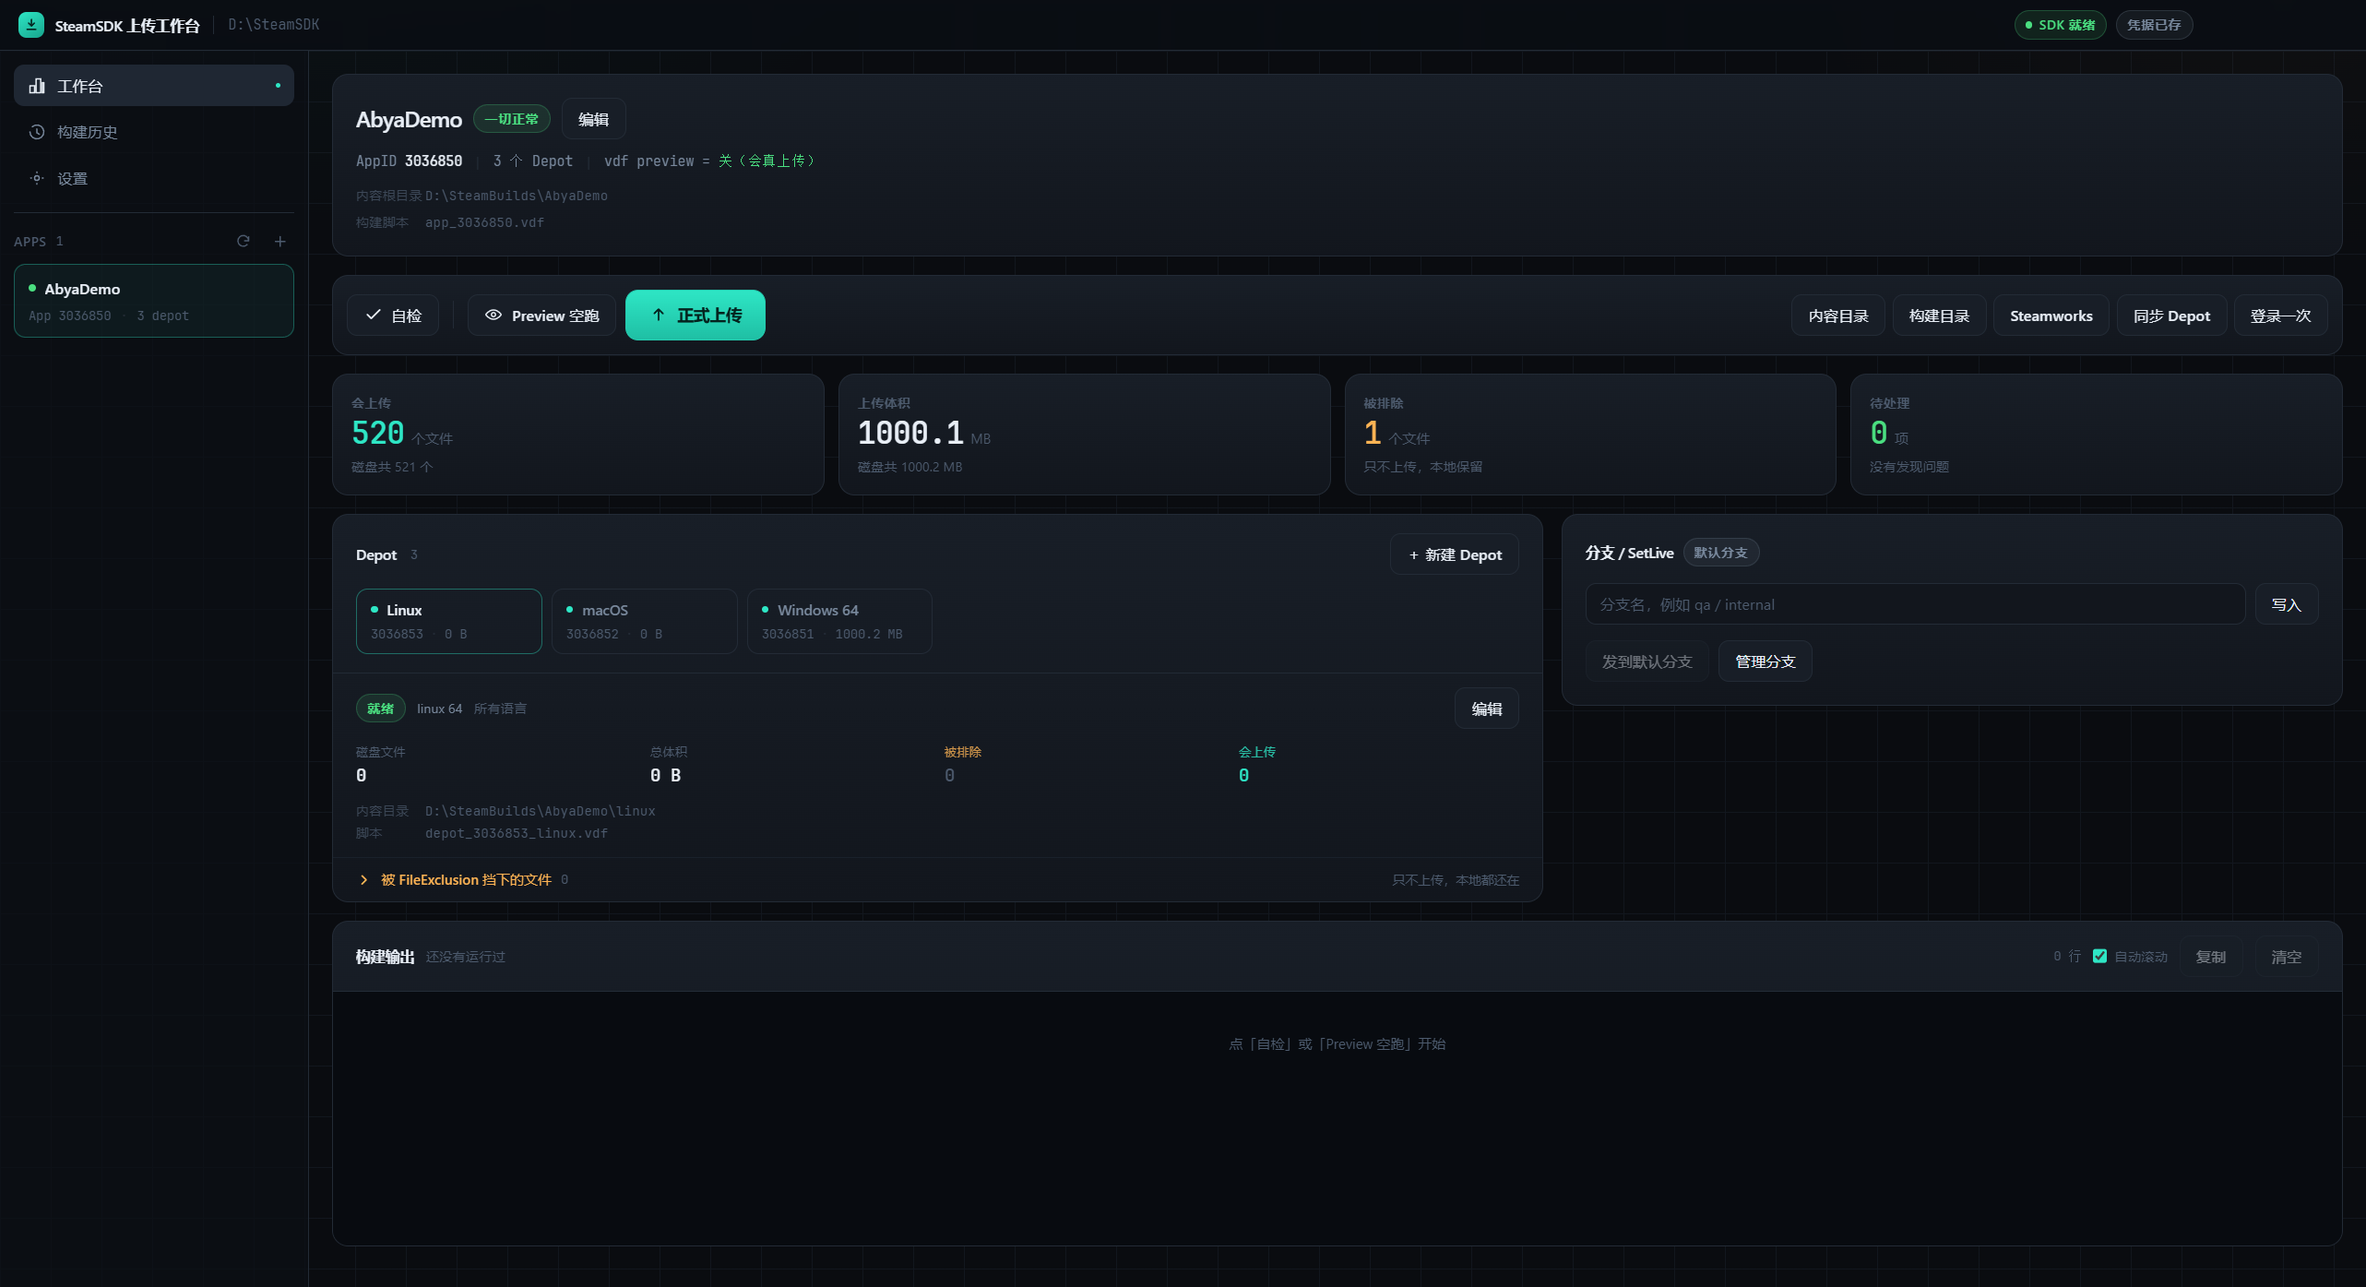
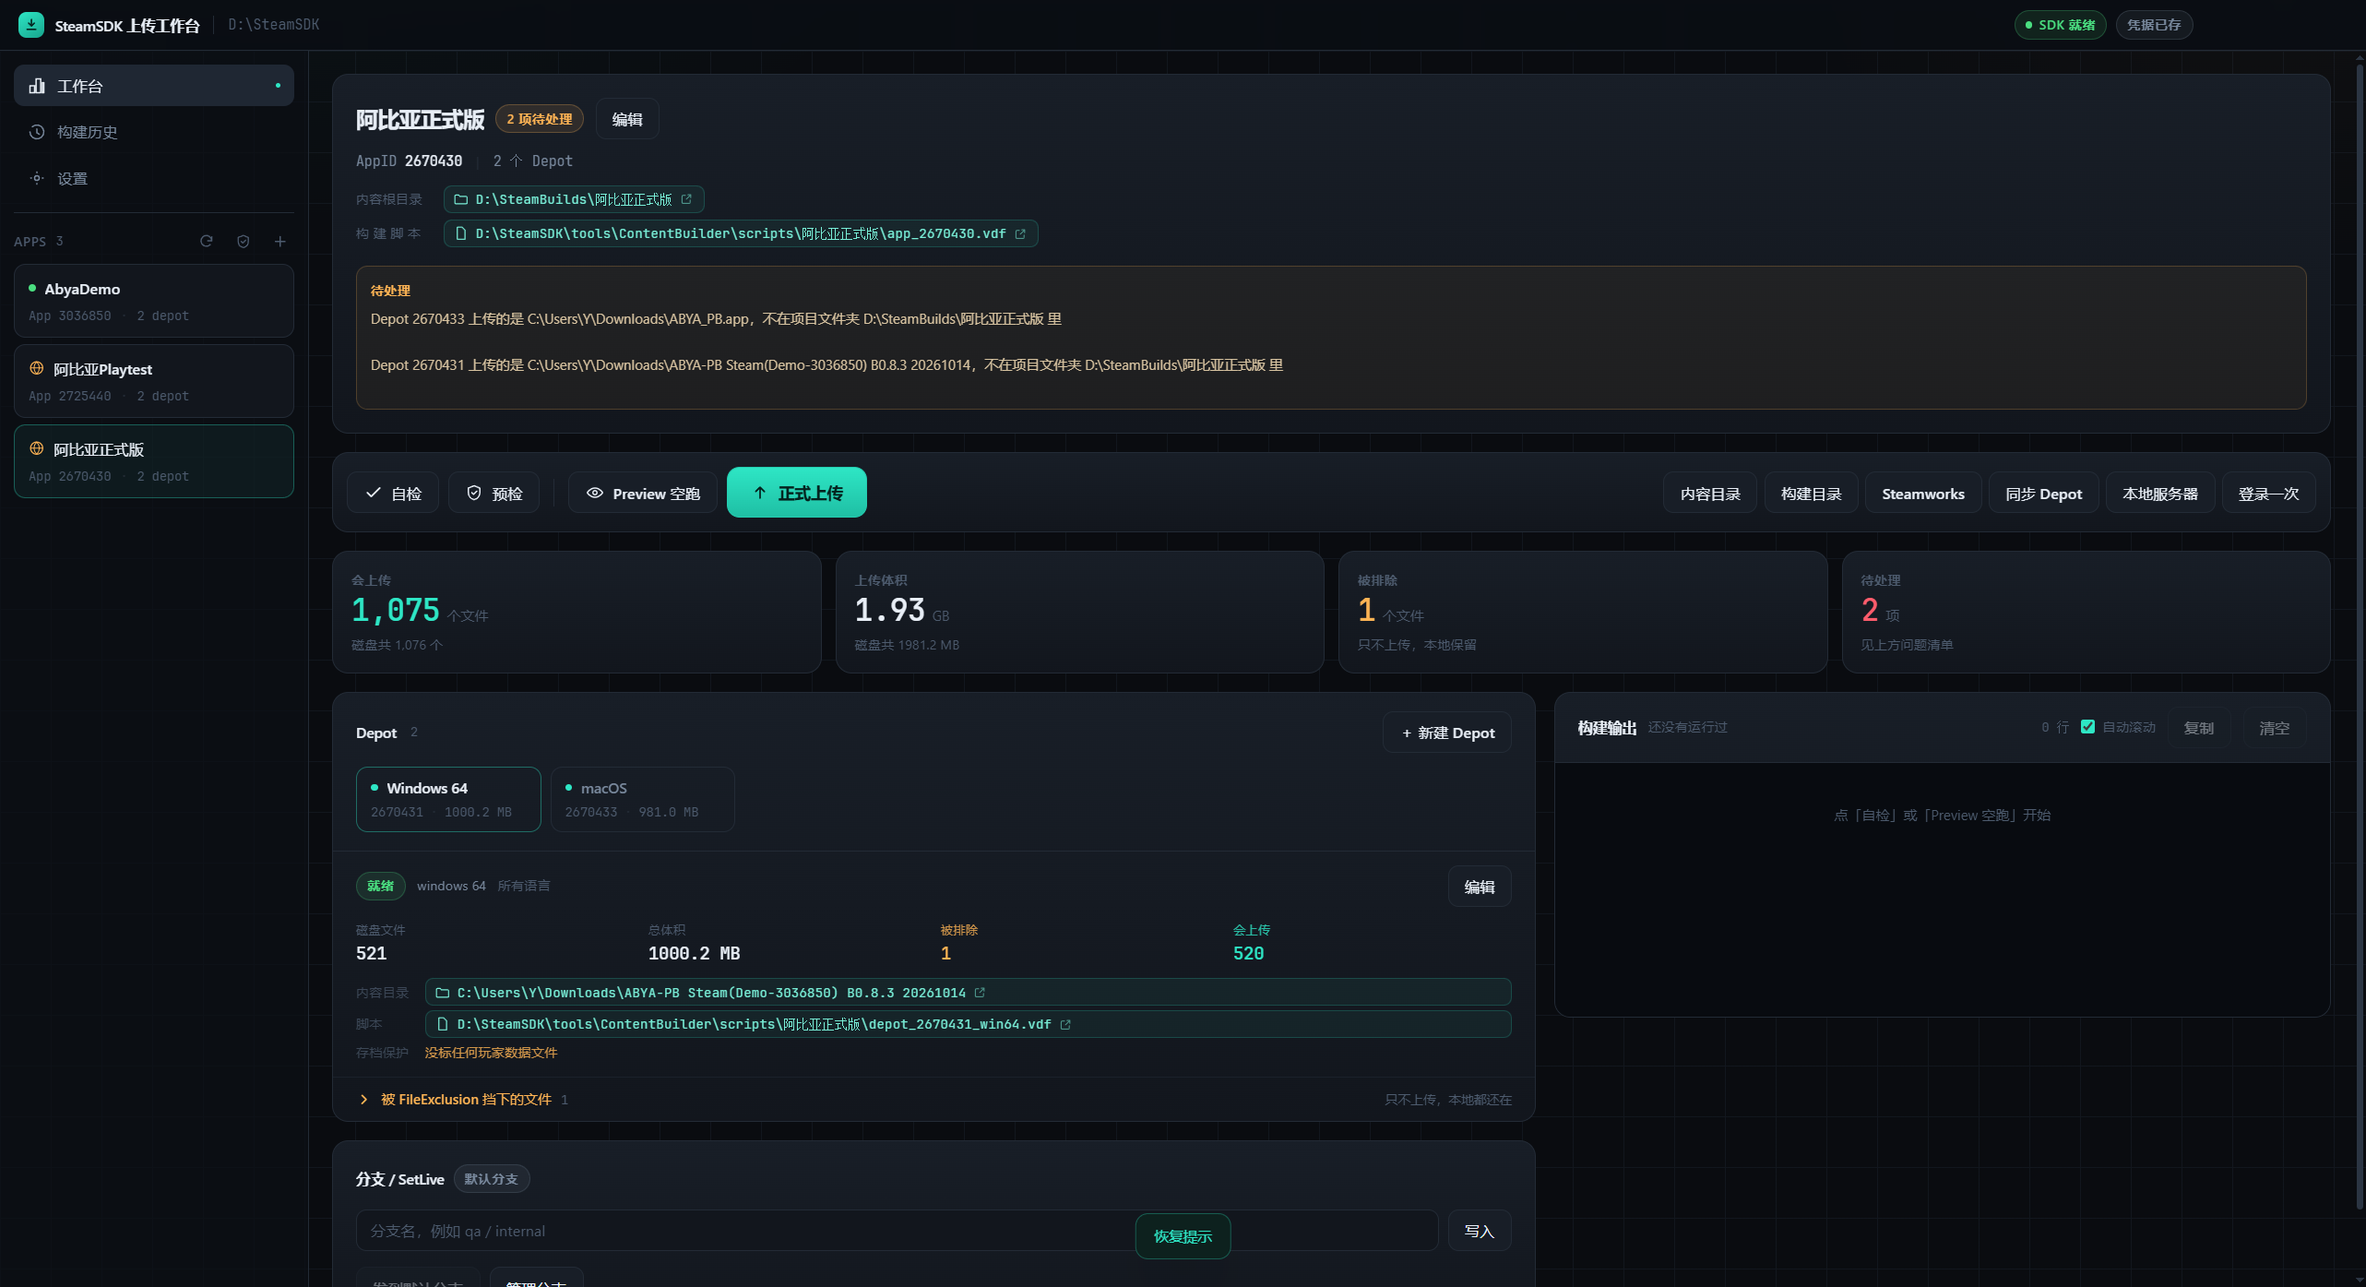
UI: 三态状态灯、待处理逐条忽略、工具条面板改浮层、历史点 App 跳回工作台、路径标签不换行

diff --git a/src/renderer/src/components/AppHeader.vue b/src/renderer/src/components/AppHeader.vue
@@ -1,9 +1,10 @@
 <script setup>
-import { computed } from 'vue'
-import { state, openDrawer } from '../store.js'
+import { computed, ref } from 'vue'
+import { state, openDrawer, ignoreProblem } from '../store.js'
 import PathLink from './PathLink.vue'
 
 const app = computed(() => state.detail)
+const showIgnored = ref(false)
 
 const status = computed(() => {
   if (!app.value || app.value.error) return { tone: 'pill-bad', text: '读取失败' }
@@ -42,13 +43,13 @@ const dup = computed(() => {
         </div>
 
         <div class="mt-3 flex flex-col gap-1.5 min-w-0">
-          <div class="flex items-center gap-2 min-w-0">
-            <span class="shrink-0 w-[52px] text-[11.5px] text-faint">内容根目录</span>
+          <div class="flex items-center gap-3 min-w-0">
+            <span class="shrink-0 w-[64px] text-[11.5px] text-faint whitespace-nowrap">内容根目录</span>
             <PathLink :path="app.contentRoot" kind="folder" class="min-w-0" />
           </div>
 
-          <div class="flex items-center gap-2 min-w-0">
-            <span class="shrink-0 w-[52px] text-[11.5px] text-faint">构建脚本</span>
+          <div class="flex items-center gap-3 min-w-0">
+            <span class="shrink-0 w-[64px] text-[11.5px] text-faint whitespace-nowrap tracking-[0.3em]">构建脚本</span>
             <PathLink :path="app.appPath" kind="file" class="min-w-0" />
           </div>
         </div>
@@ -75,9 +76,36 @@ const dup = computed(() => {
       class="mt-4 rounded-[10px] border border-[rgba(255,180,84,.22)] bg-[rgba(255,180,84,.05)] p-3"
     >
       <div class="text-[11.5px] font-semibold text-amber mb-1.5">待处理</div>
-      <ul class="m-0 pl-4 flex flex-col gap-1">
-        <li v-for="(p, i) in app.problems" :key="i" class="text-[12px] text-[#d7c3a0]">{{ p }}</li>
-      </ul>
+      <div class="flex flex-col gap-1">
+        <div v-for="(p, i) in app.problems" :key="i" class="flex items-start gap-2 group">
+          <span class="text-[12px] text-[#d7c3a0] leading-relaxed min-w-0 flex-1">{{ p }}</span>
+          <button
+            class="btn h-6 px-2 text-[10.5px] no-drag shrink-0 opacity-0 group-hover:opacity-100 focus:opacity-100 transition-opacity"
+            title="这条不再提示（原文一样才认作同一条，路径变了会重新报）"
+            @click="ignoreProblem(p, true)"
+          >
+            忽略
+          </button>
+        </div>
+      </div>
+    </div>
+
+    <!-- 已忽略的 -->
+    <div v-if="app.problemsIgnored?.length" class="mt-3 text-[11.5px]">
+      <button
+        class="bg-transparent border-0 p-0 cursor-pointer text-faint hover:text-muted underline decoration-dotted"
+        @click="showIgnored = !showIgnored"
+      >
+        已忽略 {{ app.problemsIgnored.length }} 条{{ showIgnored ? '，收起' : '' }}
+      </button>
+      <div v-if="showIgnored" class="mt-2 flex flex-col gap-1">
+        <div v-for="(p, i) in app.problemsIgnored" :key="'ig' + i" class="flex items-start gap-2">
+          <span class="text-[11.5px] text-faint leading-relaxed min-w-0 flex-1 line-through">{{ p }}</span>
+          <button class="btn h-6 px-2 text-[10.5px] no-drag shrink-0" @click="ignoreProblem(p, false)">
+            恢复
+          </button>
+        </div>
+      </div>
     </div>
   </div>
 

diff --git a/src/renderer/src/components/Sidebar.vue b/src/renderer/src/components/Sidebar.vue
@@ -23,8 +23,16 @@ const nav = [
 
 const appCount = computed(() => state.apps.length)
 
+/**
+ * 指示灯：红 = 结构性坏了（脚本缺了 / 没有 AppID / AppID 撞车），
+ * 黄 = 有待处理但不致命，绿 = 干净。
+ * 「有待处理」一律用黄色 —— 用红色会让人以为构建都跑不了。
+ */
 function healthOf(app) {
-  if (app.problems?.length) return 'bad'
+  if ((app.depots || []).some((d) => d.missing)) return 'bad'
+  if (!app.appId) return 'bad'
+  if (app.appId && state.duplicates?.some((d) => String(d.appId) === String(app.appId))) return 'bad'
+  if (app.problems?.length) return 'warn'
   if (!app.analysis?.exists) return 'warn'
   return 'ok'
 }
@@ -132,15 +140,35 @@ function healthOf(app) {
         "
         @click="selectApp(app.dirName)"
       >
-        <div class="flex items-center gap-2">
-          <span
-            class="w-1.5 h-1.5 rounded-full shrink-0"
-            :class="{
-              'bg-success': healthOf(app) === 'ok',
-              'bg-amber': healthOf(app) === 'warn',
-              'bg-danger': healthOf(app) === 'bad'
-            }"
-          />
+        <div class="flex items-center gap-2 min-w-0">
+          <!--
+            三态：绿点 = 干净；黄地球 = 有待处理（照样能传，只是有事没处理）；
+            红三角 = 结构性坏了（depot 脚本缺了 / 没有 AppID / AppID 撞车）。
+            之前「有待处理」也是红的，会让人以为构建跑不了。
+          -->
+          <svg
+            v-if="healthOf(app) === 'warn'"
+            viewBox="0 0 24 24"
+            class="w-3.5 h-3.5 shrink-0 text-amber"
+            fill="none"
+          >
+            <circle cx="12" cy="12" r="9" stroke="currentColor" stroke-width="1.7" />
+            <path
+              d="M3 12h18M12 3c2.6 2.5 4 5.6 4 9s-1.4 6.5-4 9c-2.6-2.5-4-5.6-4-9s1.4-6.5 4-9z"
+              stroke="currentColor"
+              stroke-width="1.4"
+            />
+          </svg>
+          <svg
+            v-else-if="healthOf(app) === 'bad'"
+            viewBox="0 0 24 24"
+            class="w-3.5 h-3.5 shrink-0 text-danger"
+            fill="none"
+          >
+            <path d="M12 3.5 2.8 19.5h18.4z" stroke="currentColor" stroke-width="1.7" stroke-linejoin="round" />
+            <path d="M12 9.8v4.2M12 16.9v.2" stroke="currentColor" stroke-width="1.9" stroke-linecap="round" />
+          </svg>
+          <span v-else class="w-1.5 h-1.5 rounded-full shrink-0 bg-success" />
           <span class="text-[13px] font-medium truncate">{{ app.dirName }}</span>
         </div>
         <div class="mt-1.5 flex items-center gap-2 text-[11px] text-faint num">

diff --git a/src/renderer/src/components/ActionBar.vue b/src/renderer/src/components/ActionBar.vue
@@ -128,7 +128,7 @@ const localHost = computed(() => {
 </script>
 
 <template>
-  <div class="card p-3 flex items-center gap-2 flex-wrap min-w-0" v-reveal="{ delay: 0.02 }">
+  <div class="card p-3 flex items-center gap-2 flex-wrap min-w-0 relative" v-reveal="{ delay: 0.02 }">
     <button class="btn no-drag" :disabled="disabled" @click="doCheck">
       <svg viewBox="0 0 24 24" class="w-4 h-4" fill="none">
         <path d="M20 6 9 17l-5-5" stroke="currentColor" stroke-width="2.2" stroke-linecap="round" stroke-linejoin="round" />
@@ -226,7 +226,7 @@ const localHost = computed(() => {
     >
       <div
         v-if="state.askPassword"
-        class="mt-1 w-full rounded-[10px] border border-[rgba(255,180,84,.24)] bg-[rgba(255,180,84,.06)] px-3 py-2.5"
+        class="bar-pop rounded-[10px] border border-[rgba(255,180,84,.3)] px-3 py-2.5"
       >
         <div class="flex items-center gap-2 text-[12px] text-amber">
           <svg viewBox="0 0 24 24" class="w-4 h-4 shrink-0" fill="none">
@@ -266,11 +266,11 @@ const localHost = computed(() => {
     >
       <div
         v-if="state.verify.busy || state.verify.error || state.verify.data"
-        class="mt-1 w-full rounded-[10px] border px-3 py-2.5"
+        class="bar-pop rounded-[10px] border px-3 py-2.5"
         :class="
           state.verify.error
-            ? 'border-[rgba(255,180,84,.24)] bg-[rgba(255,180,84,.06)]'
-            : 'border-line bg-surface-2/40'
+            ? 'border-[rgba(255,180,84,.3)]'
+            : 'border-line'
         "
       >
         <template v-if="state.verify.error">
@@ -393,11 +393,11 @@ const localHost = computed(() => {
     >
       <div
         v-if="state.preflight.busy || state.preflight.error || pf"
-        class="mt-1 w-full rounded-[10px] border px-3 py-2.5"
+        class="bar-pop rounded-[10px] border px-3 py-2.5"
         :class="
           state.preflight.error
-            ? 'border-[rgba(255,180,84,.24)] bg-[rgba(255,180,84,.06)]'
-            : 'border-line bg-surface-2/40'
+            ? 'border-[rgba(255,180,84,.3)]'
+            : 'border-line'
         "
       >
         <div class="flex items-center gap-2 flex-wrap">
@@ -442,7 +442,7 @@ const localHost = computed(() => {
     >
       <div
         v-if="localOpen"
-        class="mt-1 w-full rounded-[10px] border border-line bg-surface-2/40 px-3 py-2.5"
+        class="bar-pop rounded-[10px] border border-line px-3 py-2.5"
       >
         <div class="flex items-center gap-2 flex-wrap">
           <span class="font-semibold text-[12px]">本地内容服务器</span>

diff --git a/src/main/store.js b/src/main/store.js
@@ -20,7 +20,10 @@ const DEFAULTS = {
   // （run_app_build 不需要，键写进去反而可能报错）。所以存在这里，界面上显示。
   depotMeta: {},
   // 用过的 AppID 历史，给新建 App 的下拉框用：{ appId, name, at }
-  appIdHistory: []
+  appIdHistory: [],
+  // appDirName -> [被忽略的问题原文]。有些「待处理」是故意的（比如 depot
+  // 就是要点到 Downloads 里的构建产物），不该每次开界面都报一遍。
+  ignoredProblems: {}
 }
 
 let cache = null
@@ -107,6 +110,35 @@ export function rememberAppId(appId, name) {
   list.unshift({ appId: id, name: String(name || ''), at: Date.now() })
   saveSettings({ appIdHistory: list.slice(0, 30) })
   return { ok: true }
+}
+
+/* ------------------------------------------------------------------ *
+ *  「本次忽略」的问题
+ *
+ *  待处理清单里有些条目是**故意**的（比如 depot 就是指向 Downloads 里的
+ *  构建产物）。按 App + 问题原文记下来，下次不再提示；原文一样才算同一条，
+ *  路径变了会重新报 —— 这正是想要的行为。
+ * ------------------------------------------------------------------ */
+
+export function readIgnoredProblems(appDirName) {
+  const all = loadSettings().ignoredProblems || {}
+  const list = all[appDirName]
+  return Array.isArray(list) ? list : []
+}
+
+export function setIgnoredProblem(appDirName, text, on) {
+  const key = String(appDirName || '').trim()
+  const t = String(text || '').trim()
+  if (!key || !t) return { ok: false, error: '缺少 App 名或问题内容' }
+  const s = loadSettings()
+  const all = { ...(s.ignoredProblems || {}) }
+  const list = new Set(all[key] || [])
+  if (on) list.add(t)
+  else list.delete(t)
+  if (list.size) all[key] = [...list]
+  else delete all[key]
+  saveSettings({ ignoredProblems: all })
+  return { ok: true, ignored: all[key] || [] }
 }
 
 /* ------------------------------------------------------------------ *

diff --git a/src/main/sdk.js b/src/main/sdk.js
@@ -21,7 +21,7 @@ import {
   readUserConfig,
   setUserConfig
 } from './vdf-edit.js'
-import { readDepotMeta, setDepotMeta } from './store.js'
+import { readDepotMeta, setDepotMeta, readIgnoredProblems } from './store.js'
 
 /* ------------------------------------------------------------------ *
  *  路径
@@ -315,7 +315,23 @@ export function readApp(appDirName, settings) {
     depots,
     // 概览用第一个 depot 的数据；多平台时界面上按 depot 分开看
     analysis: primary?.analysis ?? analyzeContent(null, []),
-    problems: collectProblems({ appId, contentRoot, depots, appText })
+    ...splitProblems(collectProblems({ appId, contentRoot, depots, appText }), appDirName)
+  }
+}
+
+/**
+ * 把待处理清单拆成「还该提示的」和「用户说过本次忽略的」。
+ *
+ * 原文完全一样才算同一条 —— 所以路径变了会自动重新报出来，
+ * 这正是想要的：忽略的是那次的具体情况，不是这一类问题。
+ */
+function splitProblems(all, dirName) {
+  const ignoredList = readIgnoredProblems(dirName)
+  if (!ignoredList.length) return { problems: all, problemsIgnored: [] }
+  const set = new Set(ignoredList)
+  return {
+    problems: all.filter((t) => !set.has(t)),
+    problemsIgnored: all.filter((t) => set.has(t))
   }
 }
 

diff --git a/src/renderer/src/store.js b/src/renderer/src/store.js
@@ -151,6 +151,9 @@ export async function rescan() {
 
 export async function selectApp(dirName) {
   state.selectedDir = dirName
+  // 从「构建历史 / 设置」点左侧的 App，应该跳回工作台 —— 只换 selectedDir
+  // 的话页面还停在原处，看起来像「点了没反应」
+  state.view = 'workbench'
   state.detailLoading = true
   try {
     state.detail = await api.sdk.app(dirName)
@@ -159,6 +162,22 @@ export async function selectApp(dirName) {
   } finally {
     state.detailLoading = false
   }
+}
+
+/** 待处理里某一条「本次忽略 / 恢复提示」 */
+export async function ignoreProblem(text, on = true) {
+  const dir = state.selectedDir
+  if (!dir || !text) return
+  const res = await api.app.ignoreProblem(dir, text, on)
+  if (!res?.ok) return toast(res?.error || '没记下来', 'bad')
+  if (res.app) state.detail = res.app
+  // 侧栏那颗灯也要跟着变
+  const row = state.apps.find((a) => a.dirName === dir)
+  if (row && res.app) {
+    row.problems = res.app.problems
+    row.problemsIgnored = res.app.problemsIgnored
+  }
+  toast(on ? '这条不再提示了' : '恢复提示')
 }
 
 export async function reloadDetail() {

diff --git a/src/main/index.js b/src/main/index.js
@@ -17,7 +17,8 @@ import {
   clearApiKey,
   setDepotMeta,
   readDepotMeta,
-  rememberAppId
+  rememberAppId,
+  setIgnoredProblem
 } from './store.js'
 import {
   sdkStatus,
@@ -535,9 +536,15 @@ function registerIpc() {
     syncDepotRoots(dirName, projectDir, loadSettings())
   )
 
+  /* ---- 待处理清单里「本次忽略」 ---- */
+  ipcMain.handle('app:ignoreProblem', (_e, { dirName, text, on } = {}) => {
+    const res = setIgnoredProblem(dirName, text, on !== false)
+    if (!res.ok) return res
+    return { ...res, app: readApp(dirName, loadSettings()) }
+  })
+
   /* ---- 删除 App ---- */
   ipcMain.handle('app:previewDelete', (_e, { dirName }) => describeDelete(dirName, loadSettings()))
-
   ipcMain.handle('app:delete', (_e, { dirName, deleteContent } = {}) => {
     const s = loadSettings()
     // depotMeta 是按 depotId 存的，删完脚本就读不到了 —— 先把 id 记下来

diff --git a/src/preload/index.js b/src/preload/index.js
@@ -52,7 +52,9 @@ const api = {
     openVdf: (dirName, depotFile) => ipcRenderer.invoke('app:openVdf', { dirName, depotFile }),
     publicName: (appId) => ipcRenderer.invoke('app:publicName', { appId }),
     knownApps: () => ipcRenderer.invoke('app:knownApps'),
-    preflight: (dirName) => ipcRenderer.invoke('app:preflight', { dirName })
+    preflight: (dirName) => ipcRenderer.invoke('app:preflight', { dirName }),
+    ignoreProblem: (dirName, text, on) =>
+      ipcRenderer.invoke('app:ignoreProblem', { dirName, text, on })
   },
 
   /** 本地内容服务器：把构建写进 tools\ContentServer\htdocs，不上传 Steam */

diff --git a/src/renderer/src/style.css b/src/renderer/src/style.css
@@ -355,3 +355,20 @@ textarea {
 .plat-leave-to {
   opacity: 0;
 }
+
+/*
+ * 工具条下面那些面板（同步 Depot / 预检 / 本地服务器 / 密码行）。
+ * 原来它们是条内流式块，一展开就把下面所有内容顶下去 —— 看起来像“按钮弹了个 div”。
+ * 改成绝对定位的浮层，完全不占布局。
+ */
+.bar-pop {
+  position: absolute;
+  top: calc(100% + 8px);
+  left: 0;
+  right: 0;
+  z-index: 30;
+  background: #0f141c;
+  box-shadow:
+    0 18px 40px -12px rgba(0, 0, 0, 0.75),
+    0 0 0 1px rgba(255, 255, 255, 0.02);
+}
